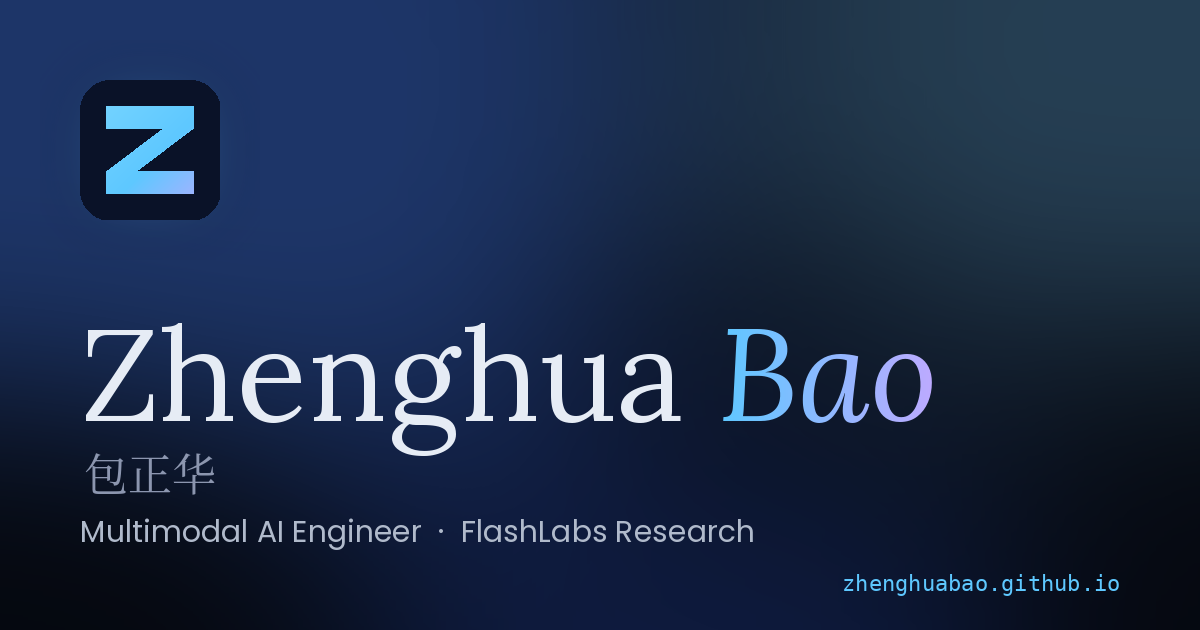
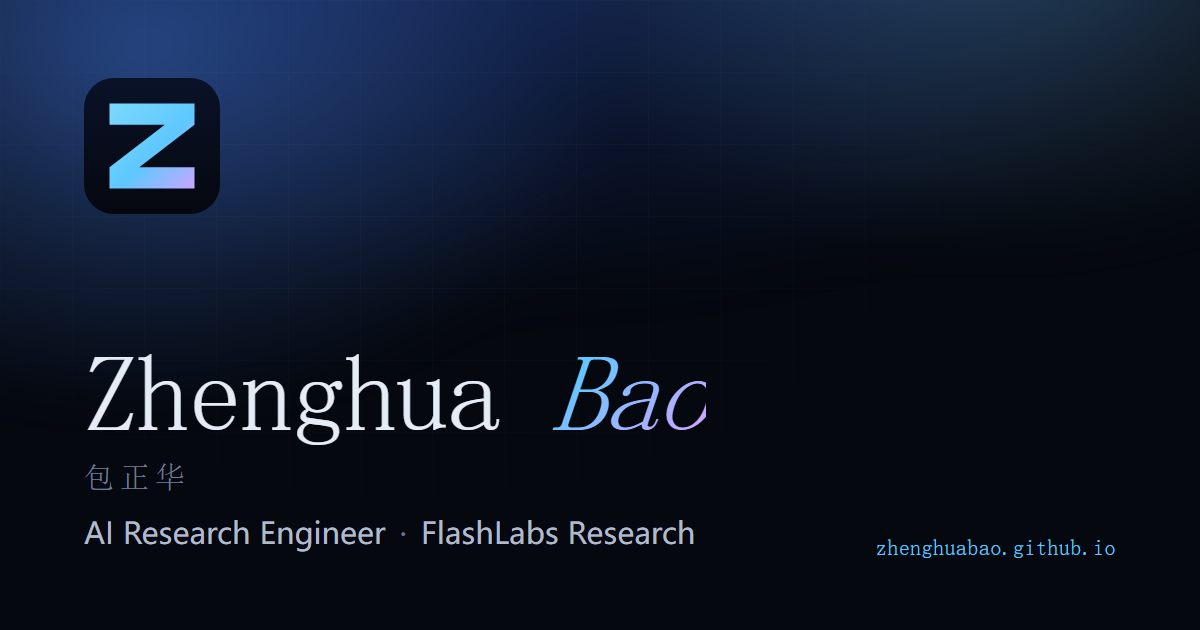
Refresh the share card, move the shimmer to what was won, stop faking the date
THE SHARE CARD STILL SAID MULTIMODAL AI ENGINEER. It is a baked image, so the
page's role change did not reach it — and it is what anyone sharing the link
actually sees. Redrawn with the same logo, faces and gradient; the source
HTML is kept beside it as og-image.source.html so the next edit does not mean
reverse-engineering a PNG.

The mesh needed stronger stops and less blur than the page uses. A 630px card
is a fifth the height of the site, so the same CSS values land nearly
invisible — matching the numbers would not have matched the look.

No venue on the card, deliberately: naming a conference would date the image
and mean redrawing it every time the newest result changes.

THE SHIMMER WAS ON THE WRONG THING. It is the most eye-catching element on
the page and it marked "Under Review" — so the least certain item pulled the
most attention while an accepted main-conference paper sat still. It is on
Accepted and Oral now, and its colour follows the green rather than staying
the blue it was written for.

THE DESCRIPTION NAMED THE ACCOLADE. Leading a meta description with a venue
and "sole-authored" is boasting where the convention is to say what you work
on; the page itself is where a result belongs. It now describes the research
— ASR errors propagating through multi-hop retrieval — which points at the
same paper without announcing it. knowsAbout gains ASR Robustness.

THE FOOTER DATE WAS THE VISITOR'S CLOCK. A script wrote the current month on
[…]

diff --git a/index.html b/index.html
@@ -4,10 +4,10 @@
   <meta charset="UTF-8">
   <meta name="viewport" content="width=device-width, initial-scale=1.0">
   <title>Zhenghua Bao — AI Research Engineer</title>
-  <meta name="description" content="AI research engineer at FlashLabs, working on end-to-end speech generation, voice cloning, and retrieval-augmented reasoning.">
+  <meta name="description" content="AI research engineer at FlashLabs — end-to-end speech, retrieval-augmented reasoning, and how ASR errors propagate through multi-hop RAG.">
 
   <meta property="og:title" content="Zhenghua Bao">
-  <meta property="og:description" content="AI research engineer at FlashLabs — end-to-end speech, voice cloning, retrieval-augmented reasoning.">
+  <meta property="og:description" content="AI research engineer at FlashLabs — end-to-end speech, retrieval-augmented reasoning, and ASR robustness in multi-hop RAG.">
   <meta property="og:type" content="website">
   <meta property="og:url" content="https://zhenghuabao.github.io">
   <meta property="og:image" content="https://zhenghuabao.github.io/og-image.png">
@@ -15,7 +15,7 @@
   <meta property="og:image:height" content="630">
   <meta name="twitter:card" content="summary_large_image">
   <meta name="twitter:title" content="Zhenghua Bao">
-  <meta name="twitter:description" content="AI research engineer at FlashLabs — end-to-end speech, voice cloning, retrieval-augmented reasoning.">
+  <meta name="twitter:description" content="AI research engineer at FlashLabs — end-to-end speech, retrieval-augmented reasoning, and ASR robustness in multi-hop RAG.">
   <meta name="twitter:image" content="https://zhenghuabao.github.io/og-image.png">
 
   <link rel="icon" type="image/svg+xml" href="./favicon.svg">
@@ -46,6 +46,7 @@
       "End-to-end Speech Models",
       "Voice Cloning",
       "Retrieval-Augmented Generation",
+      "ASR Robustness",
       "Multimodal AI",
       "Multi-Agent Reinforcement Learning"
     ]
@@ -406,8 +407,10 @@
       overflow: hidden;
     }
 
-    /* Accepted is a RESULT, not a pending state — it must not share the
-       shimmering treatment that marks "Under Review" two entries below it. */
+    /* The shimmer goes on what was WON. It is the most eye-catching thing on
+       the page, and it used to sit on "Under Review" — so the least certain
+       item pulled the most attention while an accepted main-conference paper
+       sat still. Weight follows substance now. */
     .badge--won {
       background: rgba(94, 255, 205, 0.12);
       color: var(--live);
@@ -421,7 +424,7 @@
       inset: 0;
       background: linear-gradient(90deg,
         transparent 0%,
-        rgba(94, 200, 255, 0.4) 50%,
+        rgba(94, 255, 205, 0.45) 50%,
         transparent 100%);
       animation: scan 2.8s linear infinite;
     }
@@ -688,7 +691,7 @@
             <p class="pub-authors"><strong>Zhenghua Bao</strong></p>
             <p class="pub-venue">
               <span class="venue-name">EMNLP 2026 Main</span>
-              <span class="badge badge--won">Accepted</span>
+              <span class="badge badge--won badge--scan">Accepted</span>
               <span class="badge">Sole Author</span>
             </p>
             <div class="pub-links">
@@ -724,7 +727,7 @@
             <p class="pub-authors"><strong>Zhenghua Bao</strong>, Yi Shi</p>
             <p class="pub-venue">
               AACL-IJCNLP 2026
-              <span class="badge badge--scan">Under Review</span>
+              <span class="badge">Under Review</span>
               <span class="badge">First Author</span>
             </p>
             <div class="pub-links">
@@ -772,7 +775,7 @@
           <div class="pub-body">
             <h3 class="pub-title">Towards Generalizability of Multi-Agent Reinforcement Learning in Graphs with Recurrent Message Passing</h3>
             <p class="pub-authors">Jannis Weil, <strong>Zhenghua Bao</strong>, Osama Abboud, Tobias Meuser</p>
-            <p class="pub-venue"><span class="venue-name">AAMAS 2024</span><span class="badge badge--won">Accepted</span><span class="badge badge--won">Oral</span></p>
+            <p class="pub-venue"><span class="venue-name">AAMAS 2024</span><span class="badge badge--won badge--scan">Accepted</span><span class="badge badge--won badge--scan">Oral</span></p>
             <div class="pub-links">
               <a href="https://arxiv.org/abs/2402.05027" target="_blank" rel="noopener">arXiv</a>
               <a href="https://www.ifaamas.org/Proceedings/aamas2024/pdfs/p1919.pdf" target="_blank" rel="noopener">PDF</a>
@@ -891,21 +894,15 @@
     </section>
 
     <footer class="footer">
-      <span id="last-updated">Last updated · May 2026</span>
+      <!-- A REAL DATE. This used to be written by the script at the bottom from
+           the VISITOR'S clock, so it always read "this month" no matter how long
+           the page had sat untouched — a freshness signal that could never be
+           anything but fresh. Update it by hand when the page changes. -->
+      <span id="last-updated">Last updated · September 2026</span>
       <span><span class="signal">●</span> Online</span>
     </footer>
 
   </main>
 
-  <script>
-    (function () {
-      var el = document.getElementById('last-updated');
-      if (!el) return;
-      var d = new Date();
-      var months = ['January','February','March','April','May','June',
-                    'July','August','September','October','November','December'];
-      el.textContent = 'Last updated · ' + months[d.getMonth()] + ' ' + d.getFullYear();
-    })();
-  </script>
 </body>
 </html>

diff --git a/og-image.source.html b/og-image.source.html
@@ -1,0 +1,94 @@
+<!DOCTYPE html>
+<html lang="en">
+<head>
+<meta charset="UTF-8">
+<link rel="preconnect" href="https://fonts.googleapis.com">
+<link rel="preconnect" href="https://fonts.gstatic.com" crossorigin>
+<link href="https://fonts.googleapis.com/css2?family=Instrument+Serif:ital@0;1&family=Geist:wght@300;400;500&family=JetBrains+Mono:wght@400;500&family=Noto+Serif+SC:wght@300;400&display=swap" rel="stylesheet">
+<style>
+  * { margin: 0; padding: 0; box-sizing: border-box; }
+  body {
+    width: 1200px; height: 630px; overflow: hidden;
+    background: #05080F;
+    font-family: 'Geist', -apple-system, system-ui, sans-serif;
+    position: relative;
+  }
+  /* Same mesh + grid the page uses, so the card and the site look like one thing. */
+  /* A 630px card is a fifth the height of the page, so the page's own mesh
+     values land almost invisible here — the blur eats them before they read.
+     Stronger stops and a smaller blur reproduce what the site looks like
+     rather than what its CSS says. */
+  .mesh {
+    position: absolute; inset: -20% -10% -10% -10%;
+    background:
+      radial-gradient(ellipse 55% 70% at 18% 22%, rgba(78,140,255,0.42), transparent 62%),
+      radial-gradient(ellipse 50% 60% at 78% 6%,  rgba(120,200,255,0.26), transparent 68%),
+      radial-gradient(ellipse 80% 85% at 45% -5%, rgba(42,86,205,0.40),  transparent 68%);
+    filter: blur(26px);
+  }
+  .grid {
+    position: absolute; inset: 0;
+    background-image:
+      linear-gradient(rgba(150,180,220,0.030) 1px, transparent 1px),
+      linear-gradient(90deg, rgba(150,180,220,0.030) 1px, transparent 1px);
+    background-size: 72px 72px;
+    mask-image: radial-gradient(ellipse 70% 90% at 35% 25%, #000 25%, transparent 85%);
+    -webkit-mask-image: radial-gradient(ellipse 70% 90% at 35% 25%, #000 25%, transparent 85%);
+  }
+  .inner { position: relative; padding: 78px 84px; height: 100%; display: flex; flex-direction: column; }
+  .logo { width: 136px; height: 136px; }
+  .spacer { flex: 1; }
+  h1 {
+    font-family: 'Instrument Serif', serif;
+    font-weight: 400; font-size: 108px; line-height: 1;
+    letter-spacing: -0.02em; color: #E6ECF5;
+  }
+  h1 .it {
+    font-style: italic;
+    background: linear-gradient(135deg, #5EC8FF 20%, #C8A7FF 90%);
+    -webkit-background-clip: text; background-clip: text;
+    -webkit-text-fill-color: transparent;
+  }
+  .cn {
+    font-family: 'Noto Serif SC', serif; font-weight: 300;
+    font-size: 30px; letter-spacing: 0.18em; color: #6B7690;
+    margin-top: 14px;
+  }
+  .role {
+    font-size: 30px; color: #B0BACB; margin-top: 20px; font-weight: 400;
+  }
+  .role .sep { color: #6B7690; margin: 0 14px; }
+  .url {
+    position: absolute; right: 84px; bottom: 70px;
+    font-family: 'JetBrains Mono', monospace; font-size: 22px;
+    color: #5EC8FF; letter-spacing: 0.02em;
+  }
+</style>
+</head>
+<body>
+  <div class="mesh"></div>
+  <div class="grid"></div>
+  <div class="inner">
+    <svg class="logo" viewBox="0 0 32 32" xmlns="http://www.w3.org/2000/svg">
+      <defs>
+        <linearGradient id="bg" x1="0%" y1="0%" x2="0%" y2="100%">
+          <stop offset="0%" stop-color="#0A1228"/>
+          <stop offset="100%" stop-color="#05080F"/>
+        </linearGradient>
+        <linearGradient id="zg" x1="0%" y1="0%" x2="100%" y2="100%">
+          <stop offset="0%" stop-color="#7DD8FF"/>
+          <stop offset="55%" stop-color="#5EC8FF"/>
+          <stop offset="100%" stop-color="#C8A7FF"/>
+        </linearGradient>
+      </defs>
+      <rect width="32" height="32" rx="7" fill="url(#bg)"/>
+      <path d="M 6 6 L 26 6 L 26 11 L 13 21 L 26 21 L 26 26 L 6 26 L 6 21 L 19 11 L 6 11 Z" fill="url(#zg)"/>
+    </svg>
+    <div class="spacer"></div>
+    <h1>Zhenghua <span class="it">Bao</span></h1>
+    <div class="cn">包正华</div>
+    <div class="role">AI Research Engineer<span class="sep">·</span>FlashLabs Research</div>
+  </div>
+  <div class="url">zhenghuabao.github.io</div>
+</body>
+</html>
